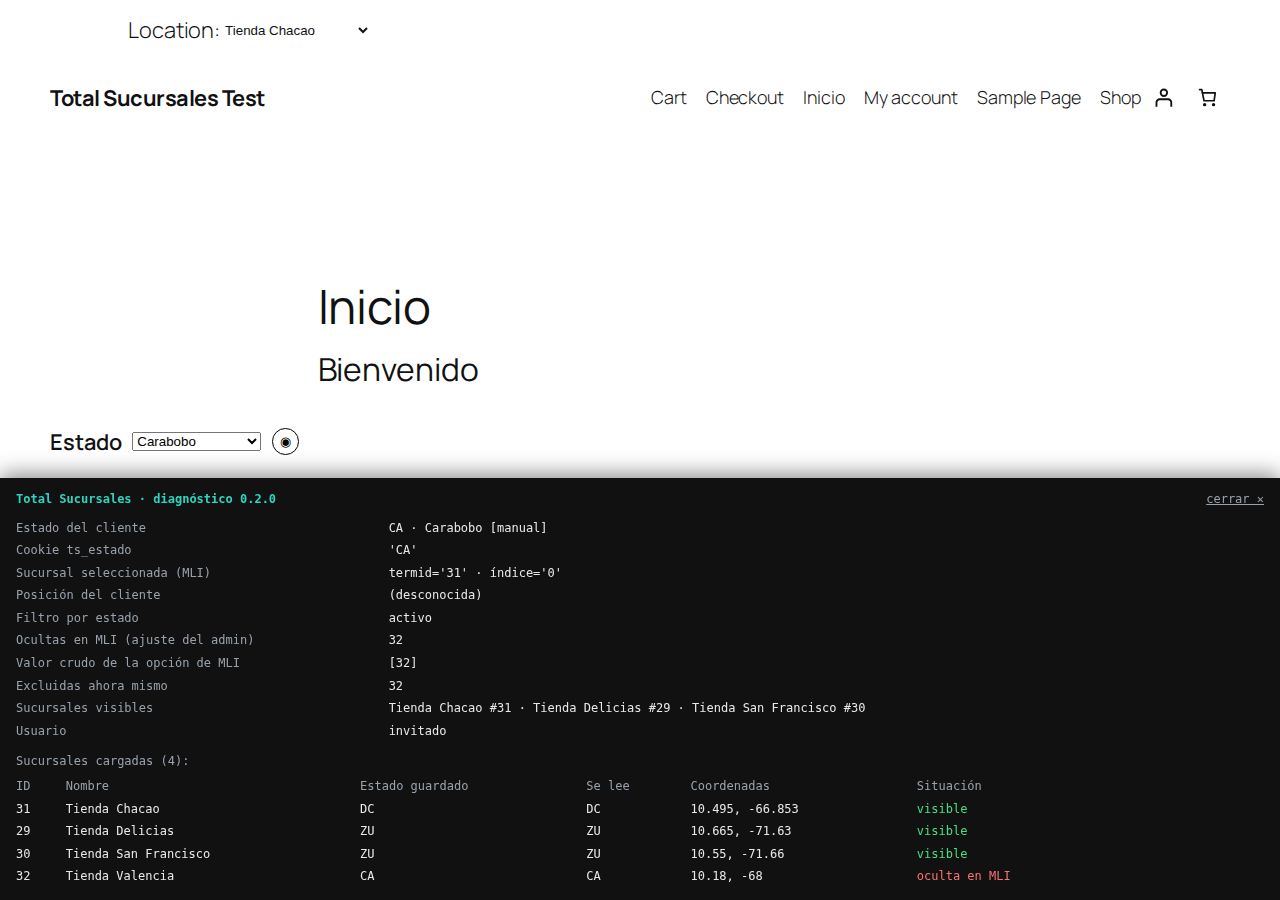
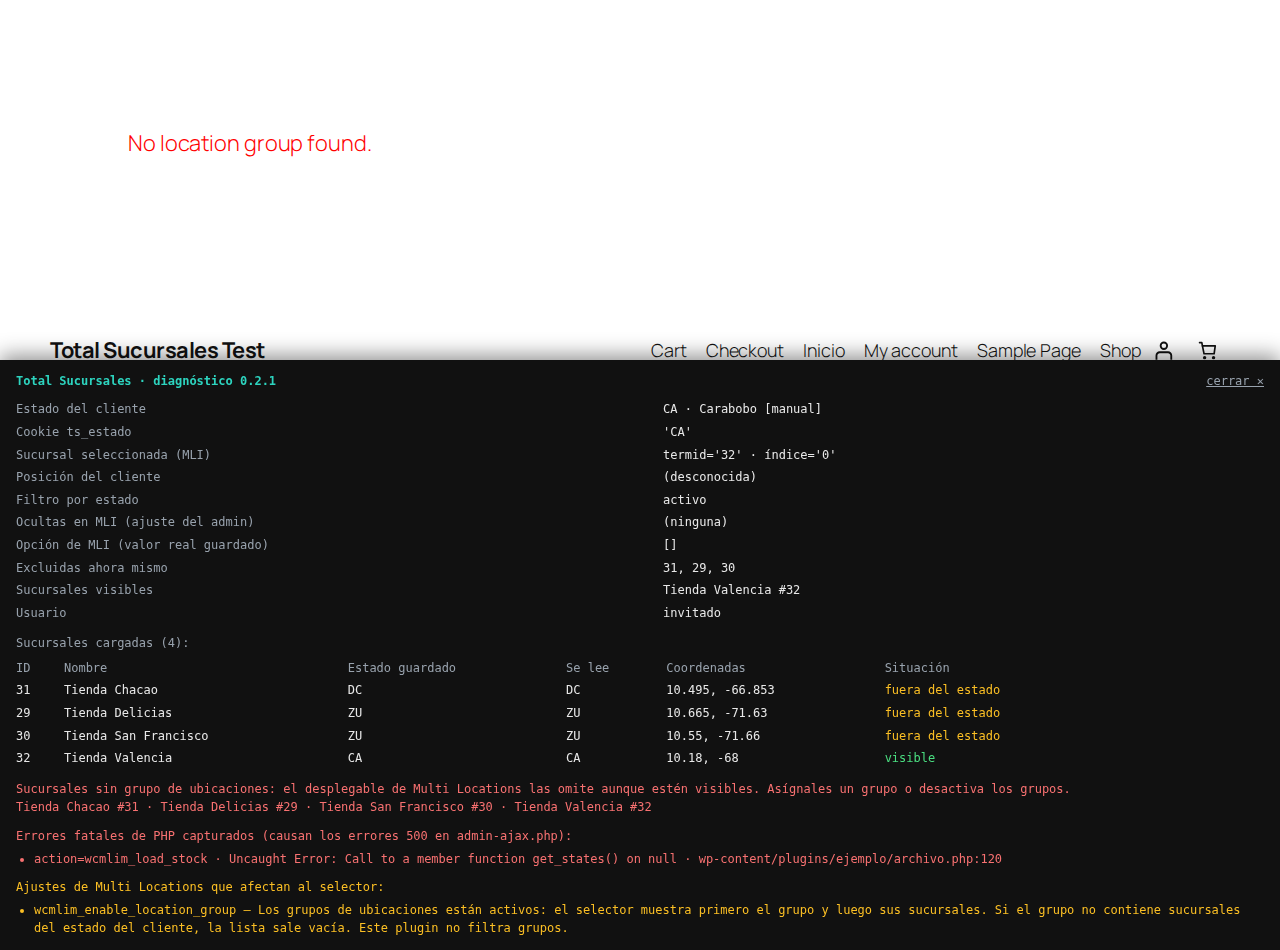
Detect branches without a location group; capture PHP fatals
The client's debug panel showed the state filter working correctly, yet
their switcher was still empty. Reproduced locally: with MLI location
groups enabled, its AJAX controller only lists branches that carry the
wcmlim_locator meta, so a branch without a group is dropped from the
dropdown even when visible. That also explains why "see all branches"
was missing one.

- Detect and report branches without a location group, in the settings
  screen and in the front-end debug panel
- Debug mode now records PHP fatal errors and lists them in the panel,
  so the admin-ajax 500s can be traced without server access
- Fix misleading "raw option" row: it showed this plugin's filtered
  value instead of what the admin actually saved
- Memoise the MLI settings checks per request
- Tests: reset per-branch stock before each run, since the suites place
  real orders. 30/30 classic, 11/11 blocks

Claude-Session: https://claude.ai/code/session_01Bxo6Dp41qr5NQG423GwPdC

diff --git a/docs/GUIA.html b/docs/GUIA.html
@@ -120,7 +120,7 @@
       <span class="eyebrow">Guía de implementación</span>
       <h1>Total Sucursales para WooCommerce</h1>
       <p class="lede">Sucursales filtradas por el estado del cliente, catálogo por sede y retiro en tienda sólo en la sucursal más cercana dentro de un radio. Todo sobre Multi Locations, Advanced Shipping y States and Municipalities of Venezuela.</p>
-      <div class="meta"><span>plugin 0.2.1</span><span>WooCommerce 7.0 – 10.1</span><span>tema clásico o de bloques</span><span>checkout clásico o por bloques</span></div>
+      <div class="meta"><span>plugin 0.2.2</span><span>WooCommerce 7.0 – 10.1</span><span>tema clásico o de bloques</span><span>checkout clásico o por bloques</span></div>
     </header>
 
     <section class="step" id="que-hace">
@@ -241,7 +241,7 @@
 
       <h3>Modo diagnóstico en la tienda</h3>
       <p>Cuando hace falta ver qué ocurre en el navegador del cliente y no en el admin, activa <strong>Modo diagnóstico en la tienda</strong> y abre cualquier página añadiendo <code>?ts_debug=1</code> al final de la dirección. Al pie aparece un panel con el estado detectado, las cookies, las exclusiones que se están aplicando y la situación de cada sucursal. Funciona en ventana de incógnito, que es donde se reproducen los problemas de visitante no registrado. Los administradores lo ven siempre, esté activado o no; acuérdate de apagarlo al terminar.</p>
-      <figure><img src="guia/16-modo-diagnostico.png" alt="Panel de diagnóstico al pie de la tienda con el estado del visitante y la situación de cada sucursal" loading="lazy"><figcaption>Cliente en Carabobo: el panel señala que Tienda Valencia está oculta en Multi Locations, por eso no aparece en el selector.</figcaption></figure>
+      <figure><img src="guia/16-modo-diagnostico.png" alt="Panel de diagnóstico al pie de la tienda con el estado del visitante y la situación de cada sucursal" loading="lazy"><figcaption>Cliente en Carabobo: el filtro funciona y deja visible Tienda Valencia, pero el panel avisa de que ninguna sucursal tiene grupo de ubicaciones, por lo que el desplegable de Multi Locations las omite. También lista los errores fatales de PHP capturados.</figcaption></figure>
 
       <div class="callout warn"><p><strong>Sobre las direcciones venezolanas:</strong> la geocodificación por dirección es imprecisa en Venezuela (urbanizaciones, "casa sin número"). La fuente fiable es el GPS del navegador. Deja la geocodificación como respaldo, no como método principal.</p></div>
     </section>
@@ -343,6 +343,7 @@
       </div></div>
       <div class="tablewrap"><table>
         <tr><th>Síntoma</th><th>Causa probable</th><th>Solución</th></tr>
+        <tr><td>El selector de sedes está vacío aunque el diagnóstico diga que hay sucursales visibles</td><td>Los <strong>grupos de ubicaciones</strong> están activos en Multi Locations y la sucursal no pertenece a ningún grupo. El desplegable de Multi Locations sólo incluye sucursales con grupo asignado, así que las omite aunque estén visibles.</td><td>Asigna un grupo a cada sucursal en su ficha (campo <em>Location Group</em>), o desactiva los grupos en <em>MULTILOCA → Settings → Location → Enable Location Group</em>. Los ajustes del plugin avisan en rojo cuando esto ocurre.</td></tr>
         <tr><td>Al elegir un estado, el switcher de sedes queda vacío ("Seleccionar" sin opciones)</td><td>La única sucursal de ese estado está marcada en <em>MULTILOCA → Settings → Location → "Hide Locations From Frontend"</em>, o no tiene el campo State cargado.</td><td>Abre el <strong>Diagnóstico de sucursales</strong> (paso 05): señala la sede oculta o sin estado. Desmárcala de "Hide Locations From Frontend" o carga su estado. Desde la versión 0.2.0 el plugin ya no deja la lista vacía: si el filtro ocultaría todas, muestra las que haya.</td></tr>
         <tr><td>El selector sigue vacío aunque la sede exista y tenga estado</td><td>Multi Locations puede estar forzando una única sucursal: <em>"Set Specific Location for Guest User"</em> (visitantes no registrados, que es lo que ocurre en incógnito) o sucursal fija por usuario. También los grupos de ubicaciones pueden dejar la lista vacía.</td><td>Abre la tienda con <code>?ts_debug=1</code>: el panel avisa de esos ajustes. Desde 0.2.1 el filtro por estado se desactiva solo en esos modos, para no vaciar el selector.</td></tr>
         <tr><td>"Otro estado / ver todas las sucursales" no muestra todas</td><td>Las que faltan están ocultas en "Hide Locations From Frontend" de Multi Locations. Esa opción se respeta siempre, también en modo "ver todas".</td><td>Quitarlas de esa lista. El diagnóstico marca cuáles están ocultas.</td></tr>
@@ -354,6 +355,7 @@
         <tr><td>El switcher de sedes de Multi Locations no cambia al elegir</td><td>Multi Locations sólo carga el script que envía ese formulario cuando tiene activado alguno de sus modos de autodetección.</td><td>Activar un modo de detección en Multi Locations (por ejemplo "With Browser") o usar el popup de sedes <code>[wcmlim_locations_popup]</code>.</td></tr>
         <tr><td>El cliente ve un estado equivocado</td><td>Está lejos de las sedes y su estado se dedujo por la sede más cercana.</td><td>Bajar "Distancia máxima para inferir el estado" o usar el modo "Preguntar siempre".</td></tr>
         <tr><td>En el checkout por bloques no aparece el municipio</td><td>El ajuste "Checkout por bloques: municipio como select" está apagado, o States and Municipalities no está activo.</td><td>Activar ambos.</td></tr>
+        <tr><td>Muchos errores 500 en <code>admin-ajax.php</code> en la consola del navegador</td><td>Algún plugin está lanzando un error fatal de PHP en las llamadas AJAX. Multi Locations usa AJAX para el stock por sucursal y para el selector, así que se ven decenas.</td><td>Con el modo diagnóstico activo, el panel del pie lista los errores fatales capturados con su archivo y línea. Eso identifica el plugin culpable sin entrar al servidor.</td></tr>
         <tr><td>Errores en la consola del navegador: <code>google is not defined</code>, <code>registerCheckoutFilters</code></td><td>Son de Multi Locations, que carga scripts de Google Maps y de bloques sin comprobar dependencias.</td><td>No afectan a este plugin. Reportar a Techspawn si molestan.</td></tr>
       </table></div>
     </section>

diff --git a/tests/e2e/e2e-blocks.js b/tests/e2e/e2e-blocks.js
@@ -4,6 +4,8 @@ const { execSync } = require('child_process');
 // IDs de las sedes resueltos por nombre: el seed puede recrearlas con IDs distintos.
 const LOC = JSON.parse(execSync(`php ${__dirname}/wp-cli.phar --allow-root --path=${__dirname}/wordpress eval '$o=array(); foreach(get_terms(array("taxonomy"=>"locations","hide_empty"=>false)) as $t){$o[$t->name]=$t->term_id;} echo json_encode($o);' 2>/dev/null`).toString().trim().split('\n').pop());
 const ID = n => String(LOC[n]);
+// Repone el stock por sucursal: cada corrida crea pedidos y lo consume.
+execSync(`php ${__dirname}/wp-cli.phar --allow-root --path=${__dirname}/wordpress eval-file ${__dirname}/reset-stock.php 2>/dev/null`);
 
 const SHOTS = __dirname + '/shots/';
 const results = [];

diff --git a/tests/e2e/e2e.js b/tests/e2e/e2e.js
@@ -4,6 +4,8 @@ const { execSync } = require('child_process');
 // IDs de las sedes resueltos por nombre: el seed puede recrearlas con IDs distintos.
 const LOC = JSON.parse(execSync(`php ${__dirname}/wp-cli.phar --allow-root --path=${__dirname}/wordpress eval '$o=array(); foreach(get_terms(array("taxonomy"=>"locations","hide_empty"=>false)) as $t){$o[$t->name]=$t->term_id;} echo json_encode($o);' 2>/dev/null`).toString().trim().split('\n').pop());
 const ID = n => String(LOC[n]);
+// Repone el stock por sucursal: cada corrida crea pedidos y lo consume.
+execSync(`php ${__dirname}/wp-cli.phar --allow-root --path=${__dirname}/wordpress eval-file ${__dirname}/reset-stock.php 2>/dev/null`);
 
 const SHOTS = __dirname + '/shots/';
 const results = [];

diff --git a/total-sucursales/includes/class-ts-debug.php b/total-sucursales/includes/class-ts-debug.php
@@ -13,8 +13,52 @@ if ( ! defined( 'ABSPATH' ) ) {
 
 class TS_Debug {
 
+	const FATALS_OPTION = 'ts_last_fatals';
+
+	/** @var array|null memoria por request */
+	private static $conflicts = null;
+
 	public static function init() {
 		add_action( 'wp_footer', array( __CLASS__, 'render' ), 999 );
+		if ( TS_Settings::is_yes( 'debug_front' ) ) {
+			register_shutdown_function( array( __CLASS__, 'capture_fatal' ) );
+		}
+	}
+
+	/**
+	 * Guarda los errores fatales de PHP mientras el diagnóstico está activo.
+	 *
+	 * Sirve sobre todo para ver por qué fallan las llamadas AJAX (error 500), que de otro modo
+	 * sólo aparecen en el log del servidor.
+	 */
+	public static function capture_fatal() {
+		$e = error_get_last();
+		if ( ! $e || ! in_array( $e['type'], array( E_ERROR, E_PARSE, E_COMPILE_ERROR, E_CORE_ERROR, E_USER_ERROR ), true ) ) {
+			return;
+		}
+		$action = '';
+		if ( isset( $_REQUEST['action'] ) ) {
+			$action = sanitize_text_field( wp_unslash( $_REQUEST['action'] ) );
+		}
+		$entry = array(
+			'time'    => time(),
+			'action'  => $action,
+			'uri'     => isset( $_SERVER['REQUEST_URI'] ) ? esc_url_raw( wp_unslash( $_SERVER['REQUEST_URI'] ) ) : '',
+			'message' => $e['message'],
+			'file'    => str_replace( ABSPATH, '', $e['file'] ) . ':' . $e['line'],
+		);
+		$list = get_option( self::FATALS_OPTION, array() );
+		if ( ! is_array( $list ) ) {
+			$list = array();
+		}
+		// Evitar duplicados del mismo error.
+		foreach ( $list as $old_entry ) {
+			if ( isset( $old_entry['message'], $old_entry['file'] ) && $old_entry['message'] === $entry['message'] && $old_entry['file'] === $entry['file'] ) {
+				return;
+			}
+		}
+		array_unshift( $list, $entry );
+		update_option( self::FATALS_OPTION, array_slice( $list, 0, 5 ), false );
 	}
 
 	public static function is_active() {
@@ -33,6 +77,9 @@ class TS_Debug {
 	 * @return array<string,string> etiqueta => explicación
 	 */
 	public static function mli_conflicts() {
+		if ( null !== self::$conflicts ) {
+			return self::$conflicts;
+		}
 		$out = array();
 
 		if ( 'on' === get_option( 'wcmlim_enable_restrict_guestuser_location' ) && ! is_user_logged_in() ) {
@@ -55,6 +102,30 @@ class TS_Debug {
 			$out['wcmlim_enable_location_group'] = __( 'Los grupos de ubicaciones están activos: el selector muestra primero el grupo y luego sus sucursales. Si el grupo no contiene sucursales del estado del cliente, la lista sale vacía. Este plugin no filtra grupos.', 'total-sucursales' );
 		}
 
+		self::$conflicts = $out;
+		return $out;
+	}
+
+	/**
+	 * Sucursales que el desplegable de Multi Locations omite por no pertenecer a un grupo.
+	 *
+	 * El controlador AJAX de MLI que rellena el selector sólo incluye las sucursales que tienen
+	 * la meta wcmlim_locator (grupo de ubicaciones). Con los grupos activos, una sucursal sin
+	 * grupo no aparece nunca, aunque este plugin la deje visible.
+	 *
+	 * @return array<int,string> id => nombre
+	 */
+	public static function branches_without_group() {
+		$out = array();
+		if ( 'on' !== get_option( 'wcmlim_enable_location_group' ) ) {
+			return $out;
+		}
+		foreach ( TS_Locations::all() as $id => $l ) {
+			$locator = get_term_meta( $id, 'wcmlim_locator', true );
+			if ( '' === $locator || null === $locator ) {
+				$out[ $id ] = $l['name'];
+			}
+		}
 		return $out;
 	}
 
@@ -74,7 +145,9 @@ class TS_Debug {
 		$coords    = TS_Customer::get_coords();
 		$conflicts = self::mli_conflicts();
 		$state     = TS_Customer::get_state();
-		$raw_opt   = get_option( 'wcmlim_exclude_locations_from_frontend' );
+		$raw_opt   = $manual; // valor real del admin, sin el filtro de este plugin
+		$no_group  = self::branches_without_group();
+		$fatals    = get_option( self::FATALS_OPTION, array() );
 		$all       = TS_Locations::all();
 
 		$rows = array(
@@ -84,7 +157,7 @@ class TS_Debug {
 			__( 'Posición del cliente', 'total-sucursales' ) => $coords ? $coords['lat'] . ', ' . $coords['lng'] . ' (' . $coords['source'] . ')' : __( '(desconocida)', 'total-sucursales' ),
 			__( 'Filtro por estado', 'total-sucursales' ) => $applies ? __( 'activo', 'total-sucursales' ) : __( 'NO se aplica en esta página', 'total-sucursales' ),
 			__( 'Ocultas en MLI (ajuste del admin)', 'total-sucursales' ) => empty( $manual ) ? __( '(ninguna)', 'total-sucursales' ) : implode( ', ', $manual ),
-			__( 'Valor crudo de la opción de MLI', 'total-sucursales' ) => is_scalar( $raw_opt ) ? (string) $raw_opt : wp_json_encode( $raw_opt ),
+			__( 'Opción de MLI (valor real guardado)', 'total-sucursales' ) => is_scalar( $raw_opt ) ? (string) $raw_opt : wp_json_encode( $raw_opt ),
 			__( 'Excluidas ahora mismo', 'total-sucursales' ) => $applies ? ( empty( $excluded ) ? __( '(ninguna)', 'total-sucursales' ) : implode( ', ', $excluded ) ) : __( '(ninguna: el filtro no se aplica)', 'total-sucursales' ),
 			__( 'Sucursales visibles', 'total-sucursales' ) => empty( $vis_names ) ? __( '¡NINGUNA!', 'total-sucursales' ) : implode( ' · ', $vis_names ),
 			__( 'Usuario', 'total-sucursales' ) => is_user_logged_in() ? 'registrado #' . get_current_user_id() : __( 'invitado', 'total-sucursales' ),
@@ -145,6 +218,20 @@ class TS_Debug {
 					</tr>
 				<?php endforeach; ?>
 			</table>
+
+			<?php if ( ! empty( $no_group ) ) : ?>
+				<div class="bad" style="margin-top:10px"><?php esc_html_e( 'Sucursales sin grupo de ubicaciones: el desplegable de Multi Locations las omite aunque estén visibles. Asígnales un grupo o desactiva los grupos.', 'total-sucursales' ); ?></div>
+				<div class="bad"><?php echo esc_html( implode( ' · ', array_map( function ( $id, $n ) { return $n . ' #' . $id; }, array_keys( $no_group ), $no_group ) ) ); ?></div>
+			<?php endif; ?>
+
+			<?php if ( ! empty( $fatals ) && is_array( $fatals ) ) : ?>
+				<div class="bad" style="margin-top:10px"><?php esc_html_e( 'Errores fatales de PHP capturados (causan los errores 500 en admin-ajax.php):', 'total-sucursales' ); ?></div>
+				<ul class="bad">
+					<?php foreach ( $fatals as $f ) : ?>
+						<li><?php echo esc_html( ( $f['action'] ? 'action=' . $f['action'] . ' · ' : '' ) . $f['message'] . ' · ' . $f['file'] ); ?></li>
+					<?php endforeach; ?>
+				</ul>
+			<?php endif; ?>
 
 			<?php if ( ! empty( $conflicts ) ) : ?>
 				<div class="warn" style="margin-top:10px"><?php esc_html_e( 'Ajustes de Multi Locations que afectan al selector:', 'total-sucursales' ); ?></div>

diff --git a/total-sucursales/includes/class-ts-settings.php b/total-sucursales/includes/class-ts-settings.php
@@ -245,6 +245,16 @@ class TS_Settings {
 		echo '<tr><td>' . esc_html__( 'MLI: dividir paquetes por sucursal (wcmlim_enable_split_packages)', 'total-sucursales' ) . '</td><td>' . ( $split ? esc_html__( 'Activo: el pickup se evalúa por paquete/sucursal.', 'total-sucursales' ) : esc_html__( 'Inactivo: el carrito debe contener una sola sucursal para ofrecer pickup.', 'total-sucursales' ) ) . '</td></tr>';
 		echo '</table>';
 
+		if ( class_exists( 'TS_Debug' ) ) {
+			$no_group = TS_Debug::branches_without_group();
+			if ( ! empty( $no_group ) ) {
+				echo '<div class="notice notice-error inline" style="max-width:820px;margin:12px 0;padding:8px 12px"><p><strong>'
+					. esc_html__( 'Sucursales sin grupo de ubicaciones', 'total-sucursales' ) . '</strong><br>'
+					. esc_html__( 'Los grupos de ubicaciones están activos y estas sucursales no pertenecen a ninguno. El desplegable de Multi Locations las omite, aunque este plugin las deje visibles: si el cliente elige un estado cuya única sucursal está en esta lista, el selector aparece vacío. Asígnales un grupo en la ficha de la sucursal o desactiva los grupos en MULTILOCA → Settings.', 'total-sucursales' )
+					. '</p><p>' . esc_html( implode( ' · ', array_map( function ( $id, $n ) { return $n . ' #' . $id; }, array_keys( $no_group ), $no_group ) ) ) . '</p></div>';
+			}
+		}
+
 		$conflicts = class_exists( 'TS_Debug' ) ? TS_Debug::mli_conflicts() : array();
 		if ( ! empty( $conflicts ) ) {
 			echo '<div class="notice notice-warning inline" style="max-width:820px;margin:12px 0;padding:8px 12px"><p><strong>' . esc_html__( 'Ajustes de Multi Locations que afectan al selector de sucursales:', 'total-sucursales' ) . '</strong></p><ul style="list-style:disc;margin-left:20px">';

diff --git a/tests/e2e/reset-stock.php b/tests/e2e/reset-stock.php
@@ -1,0 +1,36 @@
+<?php
+/**
+ * Repone el stock por sucursal de los productos de prueba.
+ * Las corridas de e2e crean pedidos reales y van consumiendo el stock.
+ */
+$stocks = array(
+	'Producto A (Delicias y Chacao)' => array( 'Tienda Delicias' => 10, 'Tienda Chacao' => 5 ),
+	'Producto B (San Francisco)'     => array( 'Tienda San Francisco' => 8 ),
+	'Producto C (Chacao)'            => array( 'Tienda Chacao' => 6 ),
+	'Producto D (Valencia)'          => array( 'Tienda Valencia' => 6 ),
+);
+$terms = array();
+foreach ( get_terms( array( 'taxonomy' => 'locations', 'hide_empty' => false ) ) as $t ) {
+	$terms[ $t->name ] = $t->term_id;
+}
+$q = new WP_Query( array( 'post_type' => 'product', 'posts_per_page' => -1, 'post_status' => 'publish' ) );
+foreach ( $q->posts as $post ) {
+	if ( ! isset( $stocks[ $post->post_title ] ) ) {
+		continue;
+	}
+	$total = 0;
+	foreach ( $stocks[ $post->post_title ] as $loc => $qty ) {
+		if ( isset( $terms[ $loc ] ) ) {
+			update_post_meta( $post->ID, 'wcmlim_stock_at_' . $terms[ $loc ], $qty );
+			$total += $qty;
+		}
+	}
+	$p = wc_get_product( $post->ID );
+	$p->set_manage_stock( true );
+	$p->set_stock_quantity( $total );
+	$p->set_stock_status( 'instock' );
+	$p->save();
+}
+update_option( 'ts_catalog_version', time() );
+delete_transient( 'ts_locations_index_v2' );
+echo "stock repuesto\n";

diff --git a/total-sucursales/total-sucursales.php b/total-sucursales/total-sucursales.php
@@ -3,7 +3,7 @@
  * Plugin Name:       Total Sucursales
  * Plugin URI:        https://github.com/augusto97/Total-Sucursales
  * Description:       Reglas de sucursales por estado, radio de retiro en tienda (pickup) y condiciones para Advanced Shipping, sobre WooCommerce Multi Locations Inventory Management y States and Municipalities of Venezuela.
- * Version:           0.2.1
+ * Version:           0.2.2
  * Author:            Augusto
  * License:           GPL v2 or later
  * License URI:       https://www.gnu.org/licenses/gpl-2.0.html
@@ -19,7 +19,7 @@ if ( ! defined( 'ABSPATH' ) ) {
 	exit;
 }
 
-define( 'TS_VERSION', '0.2.1' );
+define( 'TS_VERSION', '0.2.2' );
 define( 'TS_PLUGIN_FILE', __FILE__ );
 define( 'TS_PLUGIN_DIR', plugin_dir_path( __FILE__ ) );
 define( 'TS_PLUGIN_URL', plugin_dir_url( __FILE__ ) );
